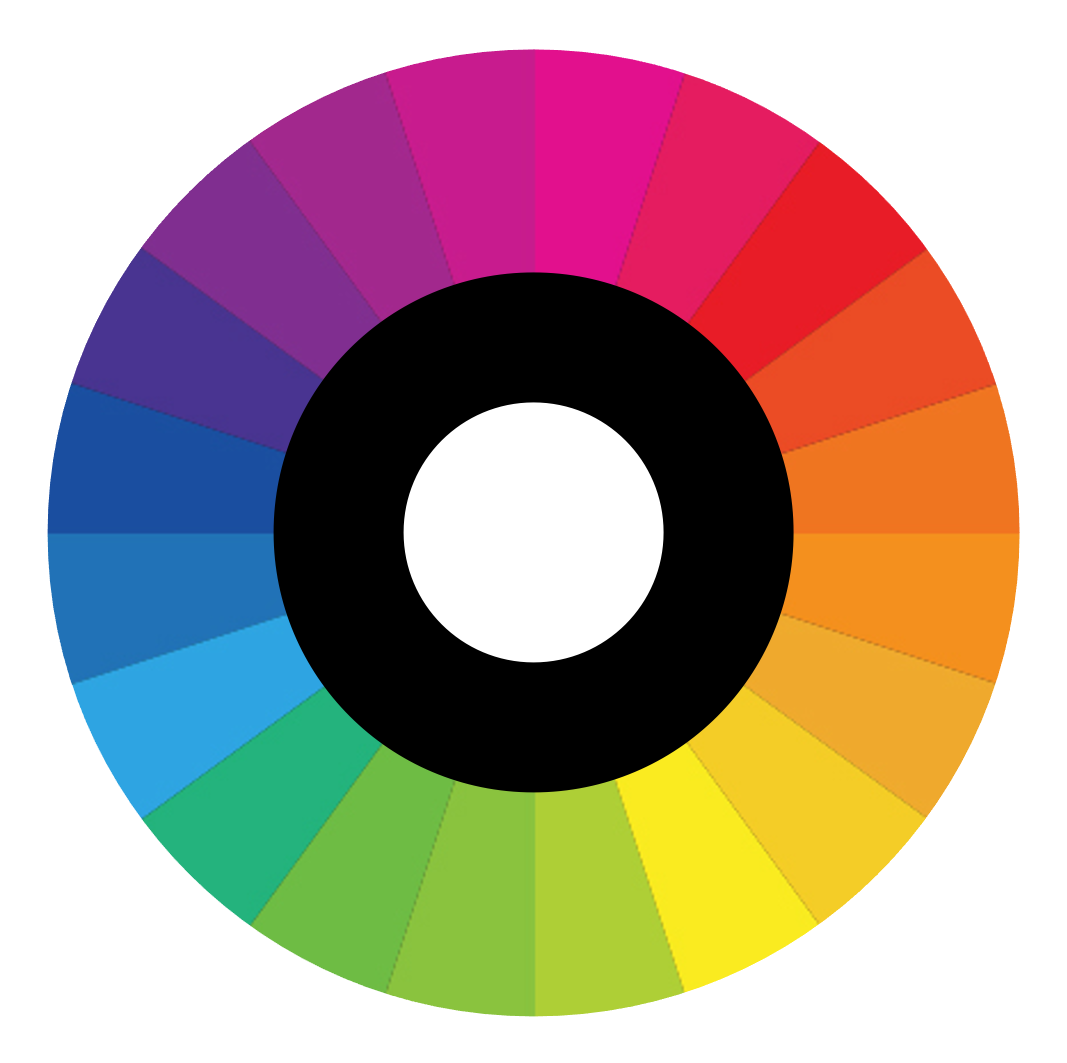
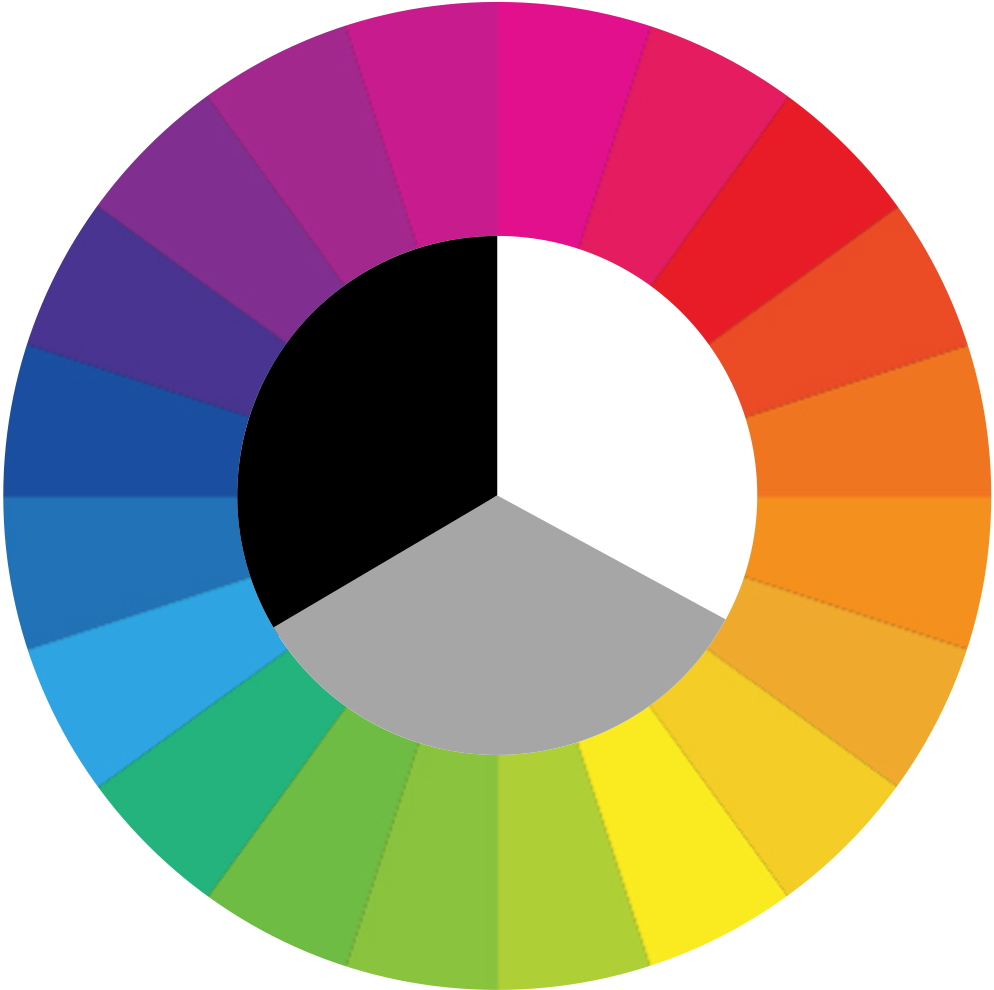
feat: change into different type of color picker

Changed region(s): [[0.0, 0.0, 0.998, 1.0], [0.2183, 0.2121, 0.7797, 0.7879]]

diff --git a/Assets/Scripts/ColorRaycast.cs b/Assets/Scripts/ColorRaycast.cs
@@ -16,24 +16,50 @@ public class ColorRaycast : MonoBehaviour
     [SerializeField] private InputLinker inputLinker;
     [SerializeField] private LayerMask UIMask, FurnitureMask;
     
-    private Color[] colorList = {
-        new Color(234/255f, 50/255f, 35/255f, 1),
-        new Color(240/255f, 145/255f, 53/255f, 1),
-        new Color(246/255f, 192/255f, 66/255f, 1),
-        new Color(251/255f, 228/255f, 77/255f, 1),
-        new Color(51/255f, 253/255f, 84/255f, 1),
-        new Color(225/255f, 252/255f, 82/255f, 1),
-        new Color(194/255f, 251/255f, 80/255f, 1),
-        new Color(154/255f, 250/255f, 78/255f, 1),
-        new Color(117/255f, 250/255f, 108/255f, 1),
-        new Color(116/255f, 250/255f, 167/255f, 1),
-        new Color(116/255f, 250/255f, 208/255f, 1),
-        new Color(115/255f, 251/255f, 239/255f, 1),
+    private Color[] rgbColorList = {
+        new Color(224/255f, 123/255f, 57/255f, 1),
+        new Color(218/255f, 87/255f, 53/255f, 1),
+        new Color(214/255f, 55/255f, 51/255f, 1),
+        new Color(211/255f, 55/255f, 97/255f, 1),
+        new Color(208/255f, 51/255f, 138/255f, 1),
+
+        new Color(184/255f, 51/255f, 139/255f, 1),
+        new Color(149/255f, 53/255f, 137/255f, 1),
+        new Color(118/255f, 54/255f, 139/255f, 1),
+        new Color(69/255f, 56/255f, 140/255f, 1),
+        new Color(39/255f, 79/255f, 155/255f, 1),
+
+        new Color(56/255f, 114/255f, 178/255f, 1),
+        new Color(82/255f, 163/255f, 221/255f, 1),
+        new Color(86/255f, 176/255f, 129/255f, 1),
+        new Color(129/255f, 185/255f, 85/255f, 1),
+        new Color(150/255f, 192/255f, 84/255f, 1),
+
+        new Color(181/255f, 205/255f, 83/255f, 1),
+        new Color(248/255f, 234/255f, 84/255f, 1),
+        new Color(238/255f, 205/255f, 79/255f, 1),
+        new Color(229/255f, 171/255f, 73/255f, 1),
+        new Color(231/255f, 148/255f, 62/255f, 1),
     };
 
-    Color angle2color(float angle){
-        int index = (int)Math.Truncate((angle / 30));
-        return colorList[index];
+    private Color[] greyColorList = {
+        new Color(0/255f, 0/255f, 0/255f, 1),
+        new Color(166/255f, 166/255f, 166/255f, 1),
+        new Color(255/255f, 255/255f, 255/255f, 1),
+    };
+
+
+    Color angle2colorRGB(float angle){
+        int index = (int)Math.Truncate((angle / 18));
+        return rgbColorList[index];
+    }
+
+    Color angle2colorGrey(float angle){
+        if (angle < 90){
+            angle = 360 + angle;
+        }
+        int index = (int)Math.Truncate(((angle - 90) / 120));
+        return greyColorList[index];
     }
 
     void Start()
@@ -55,12 +81,20 @@ public class ColorRaycast : MonoBehaviour
                     Vector3 direction_x_axis = colorCanvas.transform.right;
                     Vector3 direction_z_axis = colorCanvas.transform.forward;
                     Vector3 direction = hit.point - colorCanvas.transform.position;
-    
+
                     float theta = Mathf.Rad2Deg * Mathf.Acos(Vector3.Dot(direction_x_axis, direction) / (direction.magnitude * direction_x_axis.magnitude));
                     bool isPositiveAngle = Vector3.Dot(Vector3.Cross(direction_x_axis, direction), direction_z_axis) > 0;
 
                     theta = isPositiveAngle ? theta : 360 - theta;
-                    colorHold = angle2color(theta);
+
+                    Debug.Log(direction.magnitude);
+                    
+                    if (direction.magnitude < 0.5 * 0.51282051282){
+                        colorHold = angle2colorGrey(theta);
+                    }
+                    else if (direction.magnitude >= 0.5 * 0.51282051282 && direction.magnitude < 0.5){
+                        colorHold = angle2colorRGB(theta);
+                    }
                 }
                 
                 Vector3 v1 = transform.position;
